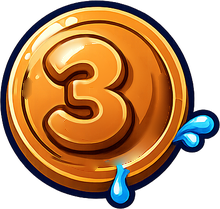
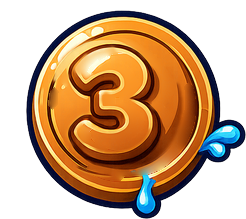
Recenter rank medal sprites on the coin itself
The droplet/crown accents hanging off each medal made the sprite's
bounding box asymmetric, so CSS centering (which centers the whole
image) was actually offsetting the coin — most visibly on medal-3,
where the droplets pushed the coin ~13px right of true center.
Repadded each canvas so the coin's own fill is dead-center; the
accents now extend into the surrounding margin instead of skewing
alignment.

diff --git a/app/leaderboard/leaderboard-client.tsx b/app/leaderboard/leaderboard-client.tsx
@@ -78,7 +78,7 @@ export function LeaderboardClient({ standings }: { standings: BoardsData }) {
                         <span className="avatarRing">
                           <img src="/juicebox-face.png" alt="" />
                         </span>
-                        <img className="rankBadge" src={`/medal-${place}.png?v=2`} alt={placeLabel[place - 1]} />
+                        <img className="rankBadge" src={`/medal-${place}.png?v=3`} alt={placeLabel[place - 1]} />
                       </div>
                       <h2>{maskedName(player.name)}</h2>
                       <span className="podiumLabel">Wagered</span>
@@ -114,7 +114,7 @@ export function LeaderboardClient({ standings }: { standings: BoardsData }) {
           {rankedPlayers.map((player, index) => (
             <div className="tableRow" role="row" key={player.name} data-reveal={index < 8 ? "row" : undefined}>
               {index < 3 ? (
-                <img className="rankMedal" src={`/medal-${index + 1}.png?v=2`} alt={`Rank ${index + 1}`} />
+                <img className="rankMedal" src={`/medal-${index + 1}.png?v=3`} alt={`Rank ${index + 1}`} />
               ) : (
                 <span className="rankChip">{index + 1}</span>
               )}

diff --git a/app/page.tsx b/app/page.tsx
@@ -203,7 +203,7 @@ export default async function Home() {
                         <span className="avatarRing">
                           <img src="/juicebox-face.png" alt="" />
                         </span>
-                        <img className="rankBadge" src={`/medal-${place}.png?v=2`} alt={`Rank ${place}`} />
+                        <img className="rankBadge" src={`/medal-${place}.png?v=3`} alt={`Rank ${place}`} />
                       </div>
                       <h2>{maskedName(player.name)}</h2>
                       <span className="podiumLabel">Wagered</span>
